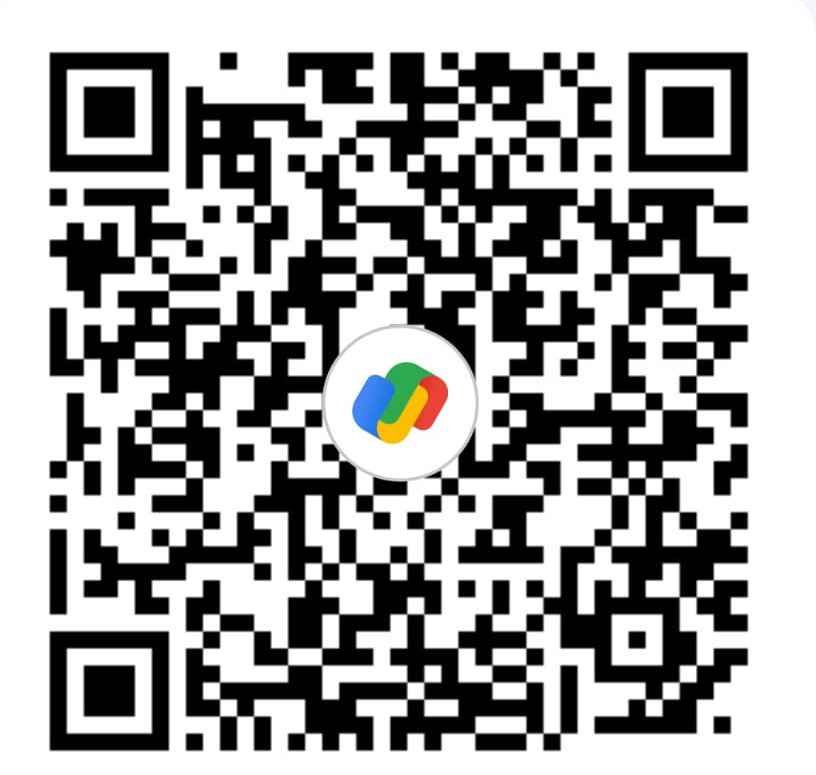
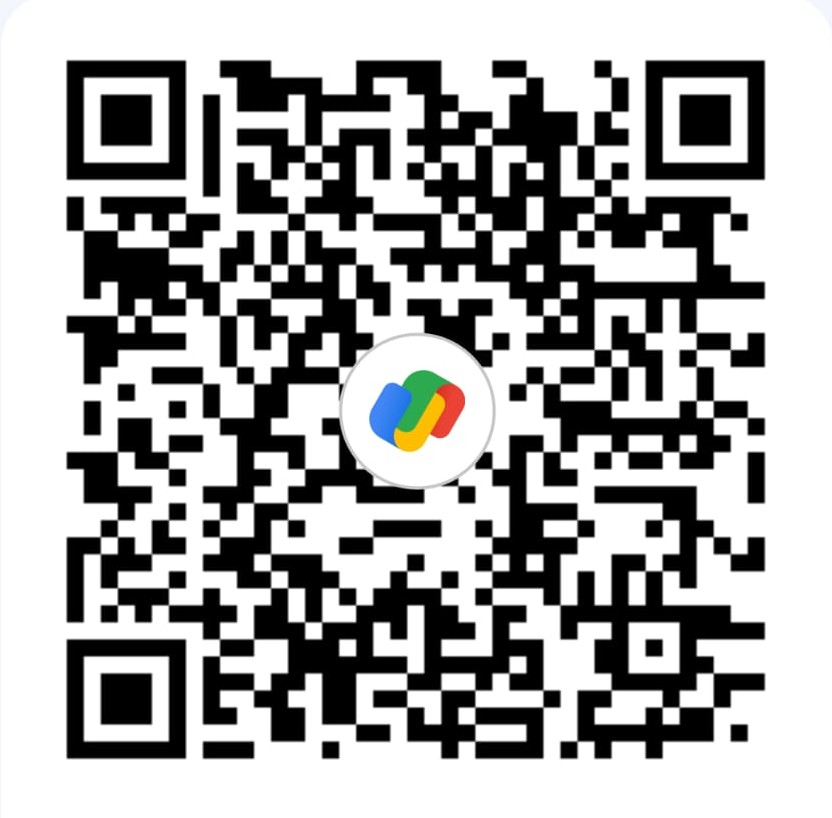
Update QR code and App.tsx

diff --git a/src/App.tsx b/src/App.tsx
@@ -847,8 +847,8 @@ const RegistrationForm = () => {
                 <img src="/qr.jpeg" alt="Payment QR Code" className="w-48 h-48 rounded-xl mix-blend-multiply" />
               </div>
               <div className="text-slate-300 text-sm space-y-1 mt-2">
-                <p><span className="font-bold text-slate-200">Name:</span> [Giri Santhagiri]</p>
-                <p><span className="font-bold text-slate-200">UPI Id:</span> [santhagirigiri@oksbi]</p>
+                <p><span className="font-bold text-slate-200">Name:</span> [Yuvaraj Elumalai]</p>
+                <p><span className="font-bold text-slate-200">UPI Id:</span> [yuvarajofficial08@oksbi]</p>
               </div>
             </div>
             <div className="space-y-6">
